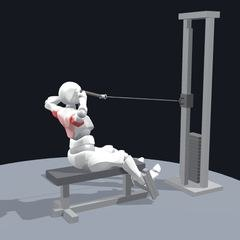
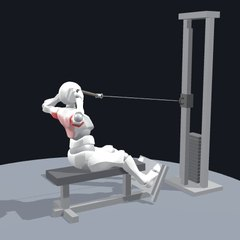
v73: pies bien apoyados en la plataforma (remo abierto y face pull sentado)
Claude-Session: https://claude.ai/code/session_0147bwbBqiHYFsgxSHAjBkWV

diff --git a/public/anim/visor-ejercicios.html b/public/anim/visor-ejercicios.html
@@ -1992,8 +1992,8 @@ function placeFRow(){const R=C.rest,hp=R.Hips.p,hw=G.localToWorld(hp.clone()),st
   frw.pad.position.set(0,st-.04,(z0+z1)/2);const [b0,b1,b2,b3,b4,b5,b6]=frw.bars;
   bar3(b0,V(0,.04,z0+.08),V(0,st-.08,z0+.08),.07);bar3(b1,V(0,.04,z1-.08),V(0,st-.08,z1-.08),.07);bar3(b2,V(0,.03,z0-.05),V(0,.03,fz+.1),.08);
   bar3(b3,V(-.26,.03,z0+.08),V(.26,.03,z0+.08),.07);
-  const pc=V(0,.24,fz);frw.plate.position.copy(pc);frw.plate.rotation.set(-.45,0,0);   // plataforma inclinada hacia ti
-  bar3(b4,V(0,.03,fz+.1),pc.clone().add(V(0,0,.05)),.06);bar3(b5,V(-.24,.06,fz+.02),V(-.24,.36,fz-.12),.04);bar3(b6,V(.24,.06,fz+.02),V(.24,.36,fz-.12),.04);
+  const pc=V(0,.27,fz+.07);frw.plate.position.copy(pc);frw.plate.rotation.set(.45,0,0);   // v73: plataforma inclinada hacia el frente; la planta del pie se apoya completa
+  bar3(b4,V(0,.03,fz+.1),pc.clone().add(V(0,-.02,.05)),.06);bar3(b5,V(-.24,.03,fz),V(-.24,.415,fz+.184),.04);bar3(b6,V(.24,.03,fz),V(.24,.415,fz+.184),.04);
   FRW={fz};placeCable()}
 Object.assign(EX,{
   'face-pull-sentado':{...EX['face-pull-polea'],nombre:'Face pull sentado en polea',show:['cable','frow'],

diff --git a/public/entrenador/index.html b/public/entrenador/index.html
@@ -1455,7 +1455,7 @@ function settingsSheet(){const p=S.profile||{};
     ${notifCard()}
     ${themeCard()}
     <button class="btn block" id="pf-out">Cerrar sesión</button>
-    <p class="muted" style="margin:0;text-align:center;font-size:12px">Versión 72</p></div>`,()=>{
+    <p class="muted" style="margin:0;text-align:center;font-size:12px">Versión 73</p></div>`,()=>{
     $("#pf-save").onclick=async()=>{if(await save("meta/profile",{name:$("#pf-name").value.trim(),phone:$("#pf-phone").value.trim()})){closeSheet();toast("Guardado")}};
     $("#pf-out").onclick=async()=>{await FB.auth.out();location.reload()}});
 }

diff --git a/public/sw.js b/public/sw.js
@@ -1,5 +1,5 @@
 // Service worker: guarda la app para abrir rápido y sin internet. Los datos los sincroniza Firebase.
-const CACHE = "entreno-v72";
+const CACHE = "entreno-v73";
 const SHELL = ["./", "./entrenador/", "./cliente/", "./shared/fb.js", "./shared/firebase-config.js",
   "./entrenador/manifest.webmanifest", "./cliente/manifest.webmanifest", "./icons/tempo-192.png", "./icons/cliente-192.png"];
 self.addEventListener("install", e => { e.waitUntil(caches.open(CACHE).then(c => c.addAll(SHELL)).then(() => self.skipWaiting())); });
